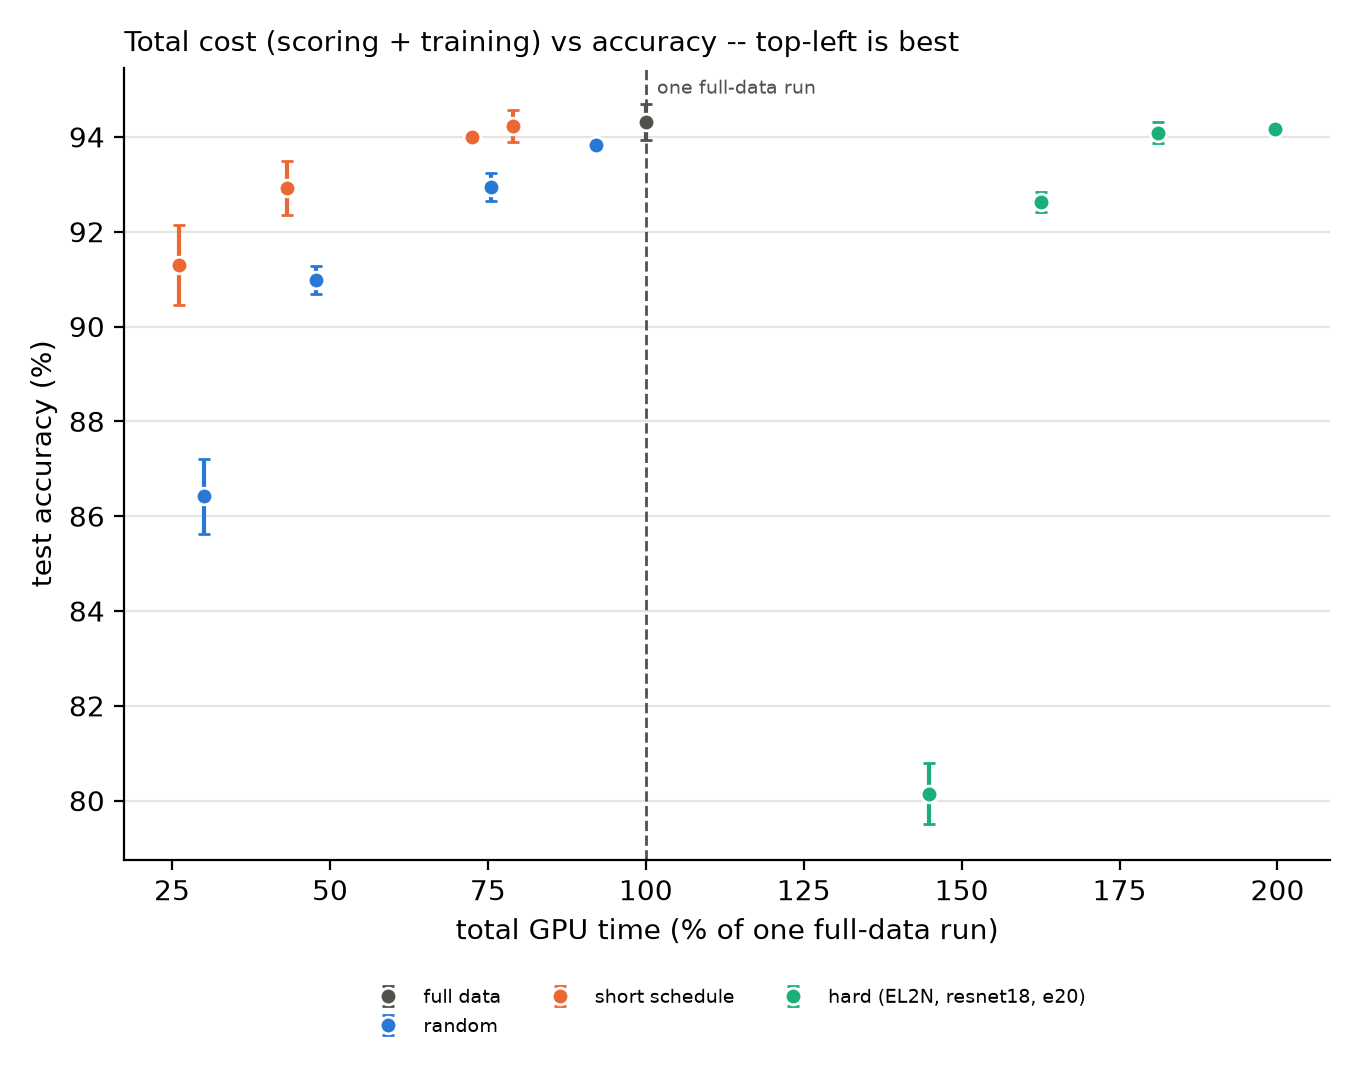
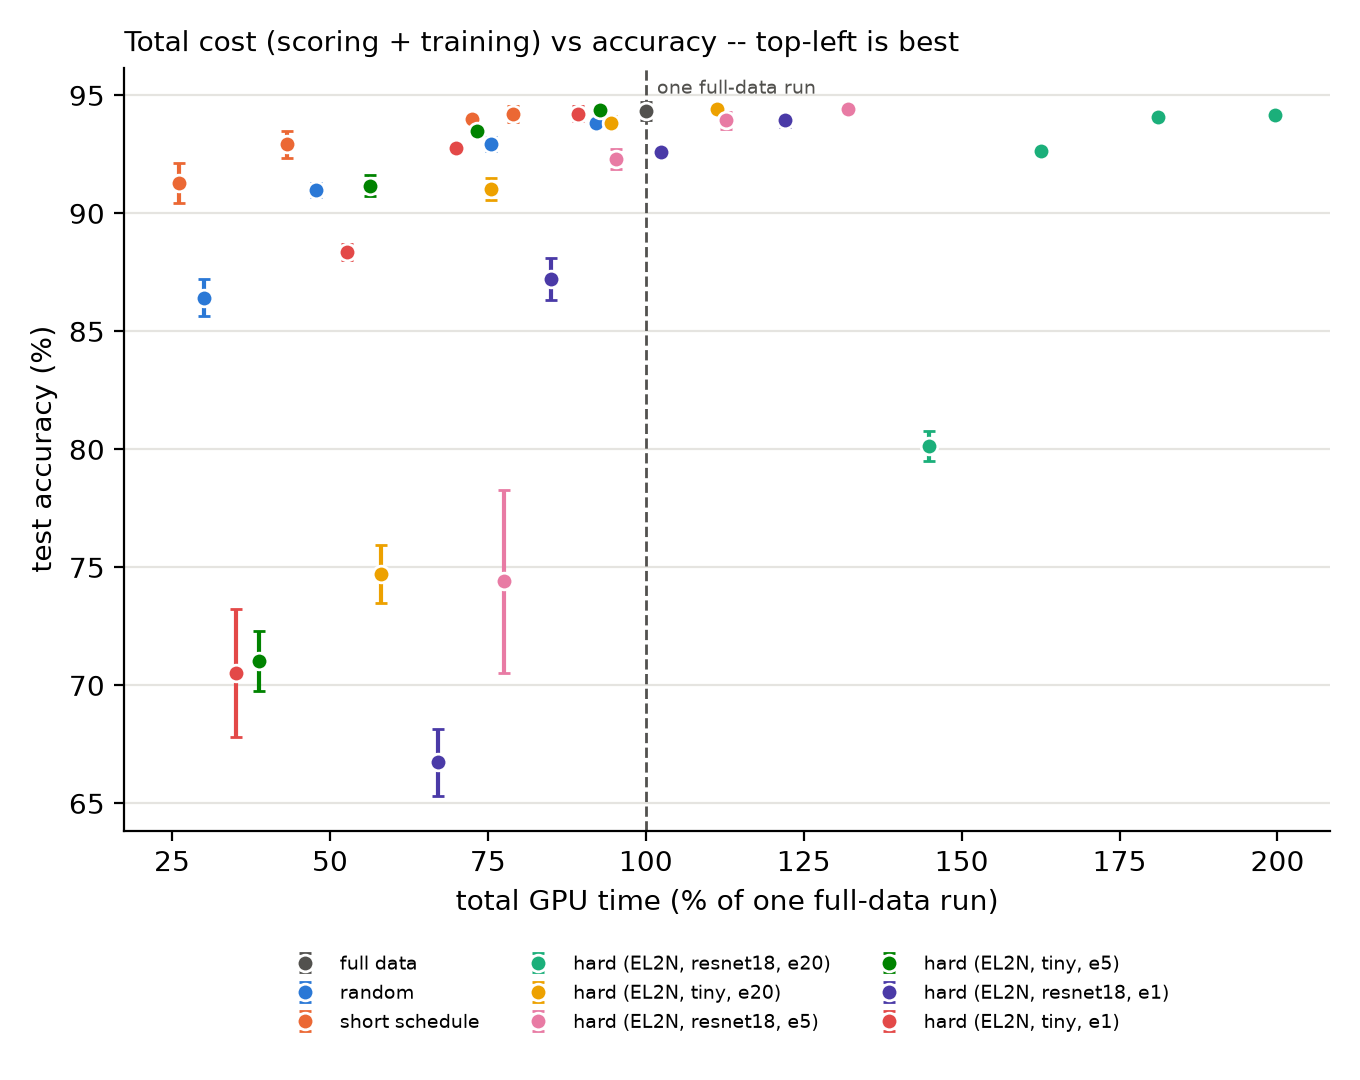
Update CIFAR-10 analysis with full post-mid-term results

diff --git a/results/cifar10/analysis/REPORT.md b/results/cifar10/analysis/REPORT.md
@@ -1,6 +1,6 @@
 # Results: CIFAR10
 
-51 training runs, 9 scorer snapshots. Hardware: NVIDIA L40S. Target: ResNet-18, 60 epochs (equal-epochs setting). Accuracy in %, mean ± sample std over seeds; ci95 = half-width of the 95% t-interval.
+171 training runs, 18 scorer snapshots. Hardware: NVIDIA L40S. Target: ResNet-18, 60 epochs (equal-epochs setting). Accuracy in %, mean ± sample std over seeds; ci95 = half-width of the 95% t-interval.
 
 ## All settings
 
@@ -10,13 +10,53 @@
 | easy (EL2N, resnet18, e20) | 0.50 | 60 | 3 | 85.53 | 0.28 | 0.70 | 1.11 |
 | easy (EL2N, resnet18, e20) | 0.70 | 60 | 3 | 89.50 | 0.17 | 0.41 | 1.57 |
 | easy (EL2N, resnet18, e20) | 0.90 | 60 | 3 | 92.38 | 0.15 | 0.37 | 1.98 |
+| easy (EL2N, tiny, e20) | 0.30 | 60 | 3 | 73.13 | 0.30 | 0.74 | 0.68 |
+| easy (EL2N, tiny, e20) | 0.50 | 60 | 3 | 81.07 | 0.26 | 0.64 | 1.11 |
+| easy (EL2N, tiny, e20) | 0.70 | 60 | 3 | 87.13 | 0.22 | 0.55 | 1.57 |
+| easy (EL2N, tiny, e20) | 0.90 | 60 | 3 | 92.26 | 0.18 | 0.44 | 1.96 |
+| easy (forgetting, resnet18, e20) | 0.30 | 60 | 3 | 79.72 | 0.19 | 0.48 | 0.68 |
+| easy (forgetting, resnet18, e20) | 0.50 | 60 | 3 | 85.42 | 0.51 | 1.28 | 1.11 |
+| easy (forgetting, resnet18, e20) | 0.70 | 60 | 3 | 89.86 | 0.18 | 0.43 | 1.58 |
+| easy (forgetting, resnet18, e20) | 0.90 | 60 | 3 | 93.25 | 0.21 | 0.52 | 1.99 |
 | full data | 1.00 | 60 | 3 | 94.32 | 0.38 | 0.95 | 2.38 |
+| hard (EL2N, resnet18, e1) | 0.30 | 60 | 3 | 66.73 | 1.42 | 3.52 | 0.66 |
+| hard (EL2N, resnet18, e1) | 0.50 | 60 | 3 | 87.23 | 0.89 | 2.21 | 1.08 |
+| hard (EL2N, resnet18, e1) | 0.70 | 60 | 3 | 92.61 | 0.12 | 0.30 | 1.50 |
+| hard (EL2N, resnet18, e1) | 0.90 | 60 | 3 | 93.94 | 0.28 | 0.70 | 1.97 |
 | hard (EL2N, resnet18, e20) | 0.30 | 60 | 3 | 80.15 | 0.64 | 1.58 | 0.69 |
+| hard (EL2N, resnet18, e20) + distill | 0.30 | 60 | 3 | 90.44 | 0.52 | 1.29 | 0.80 |
+| hard (EL2N, resnet18, e20) offset 0.05 | 0.30 | 60 | 3 | 85.76 | 1.05 | 2.62 | 0.69 |
+| hard (EL2N, resnet18, e20) class-balanced | 0.30 | 60 | 3 | 80.98 | 1.22 | 3.02 | 0.76 |
 | hard (EL2N, resnet18, e20) | 0.50 | 60 | 3 | 92.63 | 0.22 | 0.55 | 1.11 |
+| hard (EL2N, resnet18, e20) + distill | 0.50 | 60 | 3 | 92.92 | 0.02 | 0.05 | 1.27 |
+| hard (EL2N, resnet18, e20) offset 0.05 | 0.50 | 60 | 3 | 92.36 | 0.43 | 1.07 | 1.07 |
+| hard (EL2N, resnet18, e20) class-balanced | 0.50 | 60 | 3 | 92.37 | 0.36 | 0.89 | 1.21 |
 | hard (EL2N, resnet18, e20) | 0.70 | 60 | 3 | 94.09 | 0.22 | 0.55 | 1.55 |
 | hard (EL2N, resnet18, e20) | 0.90 | 60 | 3 | 94.16 | 0.04 | 0.10 | 1.99 |
+| hard (EL2N, resnet18, e5) | 0.30 | 60 | 3 | 74.40 | 3.86 | 9.59 | 0.66 |
+| hard (EL2N, resnet18, e5) | 0.50 | 60 | 3 | 92.29 | 0.42 | 1.03 | 1.08 |
+| hard (EL2N, resnet18, e5) | 0.70 | 60 | 3 | 93.93 | 0.36 | 0.91 | 1.49 |
+| hard (EL2N, resnet18, e5) | 0.90 | 60 | 3 | 94.43 | 0.15 | 0.38 | 1.95 |
+| hard (EL2N, tiny, e1) | 0.30 | 60 | 3 | 70.52 | 2.70 | 6.71 | 0.65 |
+| hard (EL2N, tiny, e1) | 0.50 | 60 | 3 | 88.37 | 0.34 | 0.84 | 1.07 |
+| hard (EL2N, tiny, e1) | 0.70 | 60 | 3 | 92.78 | 0.11 | 0.26 | 1.48 |
+| hard (EL2N, tiny, e1) | 0.90 | 60 | 3 | 94.22 | 0.32 | 0.80 | 1.94 |
+| hard (EL2N, tiny, e20) | 0.30 | 60 | 3 | 74.70 | 1.23 | 3.05 | 0.68 |
+| hard (EL2N, tiny, e20) | 0.50 | 60 | 3 | 91.03 | 0.48 | 1.20 | 1.09 |
+| hard (EL2N, tiny, e20) | 0.70 | 60 | 3 | 93.84 | 0.27 | 0.66 | 1.55 |
+| hard (EL2N, tiny, e20) | 0.90 | 60 | 3 | 94.42 | 0.26 | 0.65 | 1.95 |
+| hard (EL2N, tiny, e5) | 0.30 | 60 | 3 | 71.02 | 1.27 | 3.16 | 0.65 |
+| hard (EL2N, tiny, e5) | 0.50 | 60 | 3 | 91.17 | 0.46 | 1.13 | 1.07 |
+| hard (EL2N, tiny, e5) | 0.70 | 60 | 3 | 93.51 | 0.21 | 0.53 | 1.47 |
+| hard (EL2N, tiny, e5) | 0.90 | 60 | 3 | 94.39 | 0.22 | 0.56 | 1.94 |
+| hard (forgetting, resnet18, e20) | 0.30 | 60 | 3 | 81.81 | 5.65 | 14.02 | 0.68 |
+| hard (forgetting, resnet18, e20) | 0.50 | 60 | 3 | 93.11 | 0.16 | 0.40 | 1.10 |
+| hard (forgetting, resnet18, e20) | 0.70 | 60 | 3 | 93.88 | 0.20 | 0.48 | 1.58 |
+| hard (forgetting, resnet18, e20) | 0.90 | 60 | 3 | 94.16 | 0.26 | 0.65 | 1.97 |
 | random | 0.30 | 60 | 3 | 86.42 | 0.79 | 1.95 | 0.72 |
+| random + distill | 0.30 | 60 | 3 | 89.09 | 0.36 | 0.89 | 0.70 |
 | random | 0.50 | 60 | 3 | 90.97 | 0.30 | 0.74 | 1.14 |
+| random + distill | 0.50 | 60 | 3 | 91.08 | 0.12 | 0.30 | 1.09 |
 | random | 0.70 | 60 | 3 | 92.94 | 0.30 | 0.74 | 1.80 |
 | random | 0.90 | 60 | 3 | 93.84 | 0.13 | 0.31 | 2.19 |
 | short schedule | 1.00 | 18 | 3 | 91.29 | 0.84 | 2.09 | 0.62 |
@@ -30,7 +70,18 @@ S = total GPU seconds of all scorer runs up to the snapshot (+ the EL2N forward 
 
 | score_set | scorer | epoch | runs | cost_sec | scorer_test_acc | S_over_F | break_even_f |
 |---|---|---|---|---|---|---|---|
+| el2n_resnet18_e1 | resnet18 | 1 | 3 | 56.580 | 39.457 | 0.396 | 0.604 |
+| forget_resnet18_e1 | resnet18 | 1 | 3 | 44.650 | 39.457 | 0.312 | 0.688 |
+| el2n_resnet18_e5 | resnet18 | 5 | 3 | 71.630 | 69.677 | 0.501 | 0.499 |
+| forget_resnet18_e5 | resnet18 | 5 | 3 | 69.620 | 69.677 | 0.487 | 0.513 |
 | el2n_resnet18_e20 | resnet18 | 20 | 3 | 165.770 | 84.083 | 1.159 | -0.159 |
+| forget_resnet18_e20 | resnet18 | 20 | 3 | 163.760 | 84.083 | 1.145 | -0.145 |
+| el2n_tiny_e1 | tiny | 1 | 3 | 11.380 | 48.677 | 0.080 | 0.920 |
+| forget_tiny_e1 | tiny | 1 | 3 | 9.200 | 48.677 | 0.064 | 0.936 |
+| el2n_tiny_e5 | tiny | 5 | 3 | 16.260 | 63.137 | 0.114 | 0.886 |
+| forget_tiny_e5 | tiny | 5 | 3 | 16.130 | 63.137 | 0.113 | 0.887 |
+| el2n_tiny_e20 | tiny | 20 | 3 | 42.280 | 63.580 | 0.296 | 0.704 |
+| forget_tiny_e20 | tiny | 20 | 3 | 42.140 | 63.580 | 0.295 | 0.705 |
 
 ## Cost table (guide 10.7)
 
@@ -51,16 +102,75 @@ F = one full-data run = 2.38 min. total_pct < 100 means cheaper than training on
 | easy (EL2N, resnet18, e20) | 0.70 | 2.76 | 1.57 | 4.33 | 181.71 | 89.50 | 0.17 | 3 |
 | easy (EL2N, resnet18, e20) | 0.50 | 2.76 | 1.11 | 3.87 | 162.57 | 85.53 | 0.28 | 3 |
 | easy (EL2N, resnet18, e20) | 0.30 | 2.76 | 0.69 | 3.45 | 144.82 | 78.45 | 0.54 | 3 |
+| easy (EL2N, tiny, e20) | 0.90 | 0.70 | 1.96 | 2.66 | 111.70 | 92.26 | 0.18 | 3 |
+| easy (EL2N, tiny, e20) | 0.70 | 0.70 | 1.57 | 2.27 | 95.37 | 87.13 | 0.22 | 3 |
+| easy (EL2N, tiny, e20) | 0.50 | 0.70 | 1.11 | 1.82 | 76.35 | 81.07 | 0.26 | 3 |
+| easy (EL2N, tiny, e20) | 0.30 | 0.70 | 0.68 | 1.39 | 58.15 | 73.13 | 0.30 | 3 |
+| easy (forgetting, resnet18, e20) | 0.90 | 2.73 | 1.99 | 4.71 | 197.84 | 93.25 | 0.21 | 3 |
+| easy (forgetting, resnet18, e20) | 0.70 | 2.73 | 1.58 | 4.31 | 180.82 | 89.86 | 0.18 | 3 |
+| easy (forgetting, resnet18, e20) | 0.50 | 2.73 | 1.11 | 3.84 | 161.03 | 85.42 | 0.51 | 3 |
+| easy (forgetting, resnet18, e20) | 0.30 | 2.73 | 0.68 | 3.41 | 143.24 | 79.72 | 0.19 | 3 |
+| hard (EL2N, resnet18, e1) | 0.90 | 0.94 | 1.97 | 2.91 | 122.07 | 93.94 | 0.28 | 3 |
+| hard (EL2N, resnet18, e1) | 0.70 | 0.94 | 1.50 | 2.44 | 102.34 | 92.61 | 0.12 | 3 |
+| hard (EL2N, resnet18, e1) | 0.50 | 0.94 | 1.08 | 2.03 | 85.00 | 87.23 | 0.89 | 3 |
+| hard (EL2N, resnet18, e1) | 0.30 | 0.94 | 0.66 | 1.60 | 67.13 | 66.73 | 1.42 | 3 |
 | hard (EL2N, resnet18, e20) | 0.90 | 2.76 | 1.99 | 4.76 | 199.64 | 94.16 | 0.04 | 3 |
 | hard (EL2N, resnet18, e20) | 0.70 | 2.76 | 1.55 | 4.32 | 181.15 | 94.09 | 0.22 | 3 |
 | hard (EL2N, resnet18, e20) | 0.50 | 2.76 | 1.11 | 3.87 | 162.52 | 92.63 | 0.22 | 3 |
 | hard (EL2N, resnet18, e20) | 0.30 | 2.76 | 0.69 | 3.45 | 144.91 | 80.15 | 0.64 | 3 |
+| hard (EL2N, resnet18, e20) + distill | 0.50 | 2.76 | 1.27 | 4.03 | 169.14 | 92.92 | 0.02 | 3 |
+| hard (EL2N, resnet18, e20) + distill | 0.30 | 2.76 | 0.80 | 3.56 | 149.47 | 90.44 | 0.52 | 3 |
+| hard (EL2N, resnet18, e20) class-balanced | 0.50 | 2.76 | 1.21 | 3.98 | 166.81 | 92.37 | 0.36 | 3 |
+| hard (EL2N, resnet18, e20) class-balanced | 0.30 | 2.76 | 0.76 | 3.52 | 147.91 | 80.98 | 1.22 | 3 |
+| hard (EL2N, resnet18, e20) offset 0.05 | 0.50 | 2.76 | 1.07 | 3.83 | 160.90 | 92.36 | 0.43 | 3 |
+| hard (EL2N, resnet18, e20) offset 0.05 | 0.30 | 2.76 | 0.69 | 3.45 | 144.69 | 85.76 | 1.05 | 3 |
+| hard (EL2N, resnet18, e5) | 0.90 | 1.19 | 1.95 | 3.14 | 131.95 | 94.43 | 0.15 | 3 |
+| hard (EL2N, resnet18, e5) | 0.70 | 1.19 | 1.49 | 2.68 | 112.63 | 93.93 | 0.36 | 3 |
+| hard (EL2N, resnet18, e5) | 0.50 | 1.19 | 1.08 | 2.27 | 95.21 | 92.29 | 0.42 | 3 |
+| hard (EL2N, resnet18, e5) | 0.30 | 1.19 | 0.66 | 1.85 | 77.59 | 74.40 | 3.86 | 3 |
+| hard (EL2N, tiny, e1) | 0.90 | 0.19 | 1.94 | 2.13 | 89.26 | 94.22 | 0.32 | 3 |
+| hard (EL2N, tiny, e1) | 0.70 | 0.19 | 1.48 | 1.67 | 69.97 | 92.78 | 0.11 | 3 |
+| hard (EL2N, tiny, e1) | 0.50 | 0.19 | 1.07 | 1.26 | 52.76 | 88.37 | 0.34 | 3 |
+| hard (EL2N, tiny, e1) | 0.30 | 0.19 | 0.65 | 0.84 | 35.13 | 70.52 | 2.70 | 3 |
+| hard (EL2N, tiny, e20) | 0.90 | 0.70 | 1.95 | 2.65 | 111.21 | 94.42 | 0.26 | 3 |
+| hard (EL2N, tiny, e20) | 0.70 | 0.70 | 1.55 | 2.25 | 94.42 | 93.84 | 0.27 | 3 |
+| hard (EL2N, tiny, e20) | 0.50 | 0.70 | 1.09 | 1.80 | 75.48 | 91.03 | 0.48 | 3 |
+| hard (EL2N, tiny, e20) | 0.30 | 0.70 | 0.68 | 1.38 | 58.04 | 74.70 | 1.23 | 3 |
+| hard (EL2N, tiny, e5) | 0.90 | 0.27 | 1.94 | 2.21 | 92.82 | 94.39 | 0.22 | 3 |
+| hard (EL2N, tiny, e5) | 0.70 | 0.27 | 1.47 | 1.75 | 73.24 | 93.51 | 0.21 | 3 |
+| hard (EL2N, tiny, e5) | 0.50 | 0.27 | 1.07 | 1.34 | 56.26 | 91.17 | 0.46 | 3 |
+| hard (EL2N, tiny, e5) | 0.30 | 0.27 | 0.65 | 0.92 | 38.69 | 71.02 | 1.27 | 3 |
+| hard (forgetting, resnet18, e20) | 0.90 | 2.73 | 1.97 | 4.70 | 197.32 | 94.16 | 0.26 | 3 |
+| hard (forgetting, resnet18, e20) | 0.70 | 2.73 | 1.58 | 4.31 | 180.74 | 93.88 | 0.20 | 3 |
+| hard (forgetting, resnet18, e20) | 0.50 | 2.73 | 1.10 | 3.83 | 160.81 | 93.11 | 0.16 | 3 |
+| hard (forgetting, resnet18, e20) | 0.30 | 2.73 | 0.68 | 3.41 | 143.00 | 81.81 | 5.65 | 3 |
+| random + distill | 0.50 | 2.76 | 1.09 | 3.86 | 161.87 | 91.08 | 0.12 | 3 |
+| random + distill | 0.30 | 2.76 | 0.70 | 3.46 | 145.20 | 89.09 | 0.36 | 3 |
+
+## Scorer agreement with the reference (guide 9.4)
+
+Reference: el2n_resnet18_e20. Overlap = share of the reference's kept (hardest) images also kept by the other scorer; compare with random@f, the overlap expected by chance.
+
+| score_set | spearman | kendall | overlap@90% | random@90% | overlap@70% | random@70% | overlap@50% | random@50% | overlap@30% | random@30% |
+|---|---|---|---|---|---|---|---|---|---|---|
+| el2n_tiny_e20 | 0.700 | 0.508 | 0.944 | 0.900 | 0.852 | 0.700 | 0.760 | 0.500 | 0.641 | 0.300 |
+| el2n_resnet18_e5 | 0.670 | 0.481 | 0.936 | 0.900 | 0.841 | 0.700 | 0.747 | 0.500 | 0.631 | 0.300 |
+| el2n_tiny_e5 | 0.615 | 0.434 | 0.932 | 0.900 | 0.826 | 0.700 | 0.722 | 0.500 | 0.593 | 0.300 |
+| el2n_resnet18_e1 | 0.367 | 0.250 | 0.922 | 0.900 | 0.784 | 0.700 | 0.624 | 0.500 | 0.442 | 0.300 |
+| el2n_tiny_e1 | 0.494 | 0.341 | 0.923 | 0.900 | 0.804 | 0.700 | 0.678 | 0.500 | 0.518 | 0.300 |
+| forget_resnet18_e20 | 0.742 | 0.559 | 0.923 | 0.900 | 0.848 | 0.700 | 0.799 | 0.500 | 0.702 | 0.300 |
+| forget_tiny_e20 | 0.653 | 0.479 | 0.923 | 0.900 | 0.845 | 0.700 | 0.756 | 0.500 | 0.590 | 0.300 |
 
 ## Scorer table (guide 9.5)
 
 | scorer | epoch | runs | cost_sec | scorer_acc | spearman_vs_ref | hard_acc@50% | hard_acc@30% | random_acc@50% | random_acc@30% |
 |---|---|---|---|---|---|---|---|---|---|
+| resnet18 | 1 | 3 | 56.58 | 39.46 | 0.37 | 87.23 | 66.73 | 90.97 | 86.42 |
+| resnet18 | 5 | 3 | 71.63 | 69.68 | 0.67 | 92.29 | 74.40 | 90.97 | 86.42 |
 | resnet18 | 20 | 3 | 165.77 | 84.08 | 1.00 | 92.63 | 80.15 | 90.97 | 86.42 |
+| tiny | 1 | 3 | 11.38 | 48.68 | 0.49 | 88.37 | 70.52 | 90.97 | 86.42 |
+| tiny | 5 | 3 | 16.26 | 63.14 | 0.61 | 91.17 | 71.02 | 90.97 | 86.42 |
+| tiny | 20 | 3 | 42.28 | 63.58 | 0.70 | 91.03 | 74.70 | 90.97 | 86.42 |
 
 ## Is it better than random? (Welch t-test, guide 12.4)
 
@@ -70,10 +180,50 @@ F = one full-data run = 2.38 min. total_pct < 100 means cheaper than training on
 | easy (EL2N, resnet18, e20) | 0.500 | 85.533 | 90.973 | -5.440 | -22.929 | 0.000 | yes |
 | easy (EL2N, resnet18, e20) | 0.700 | 89.500 | 92.940 | -3.440 | -17.427 | 0.000 | yes |
 | easy (EL2N, resnet18, e20) | 0.900 | 92.377 | 93.837 | -1.460 | -12.961 | 0.000 | yes |
+| easy (EL2N, tiny, e20) | 0.300 | 73.130 | 86.420 | -13.290 | -27.367 | 0.000 | yes |
+| easy (EL2N, tiny, e20) | 0.500 | 81.067 | 90.973 | -9.907 | -43.645 | 0.000 | yes |
+| easy (EL2N, tiny, e20) | 0.700 | 87.133 | 92.940 | -5.807 | -27.100 | 0.000 | yes |
+| easy (EL2N, tiny, e20) | 0.900 | 92.263 | 93.837 | -1.573 | -12.615 | 0.000 | yes |
+| easy (forgetting, resnet18, e20) | 0.300 | 79.717 | 86.420 | -6.703 | -14.347 | 0.003 | yes |
+| easy (forgetting, resnet18, e20) | 0.500 | 85.420 | 90.973 | -5.553 | -16.182 | 0.000 | yes |
+| easy (forgetting, resnet18, e20) | 0.700 | 89.857 | 92.940 | -3.083 | -15.427 | 0.000 | yes |
+| easy (forgetting, resnet18, e20) | 0.900 | 93.253 | 93.837 | -0.583 | -4.161 | 0.021 | yes |
+| hard (EL2N, resnet18, e1) | 0.300 | 66.733 | 86.420 | -19.687 | -21.032 | 0.000 | yes |
+| hard (EL2N, resnet18, e1) | 0.500 | 87.227 | 90.973 | -3.747 | -6.915 | 0.012 | yes |
+| hard (EL2N, resnet18, e1) | 0.700 | 92.613 | 92.940 | -0.327 | -1.759 | 0.190 | no |
+| hard (EL2N, resnet18, e1) | 0.900 | 93.937 | 93.837 | 0.100 | 0.562 | 0.616 | no |
 | hard (EL2N, resnet18, e20) | 0.300 | 80.150 | 86.420 | -6.270 | -10.739 | 0.001 | yes |
+| hard (EL2N, resnet18, e20) + distill | 0.300 | 90.437 | 86.420 | 4.017 | 7.391 | 0.003 | yes |
+| hard (EL2N, resnet18, e20) offset 0.05 | 0.300 | 85.760 | 86.420 | -0.660 | -0.870 | 0.437 | no |
+| hard (EL2N, resnet18, e20) class-balanced | 0.300 | 80.980 | 86.420 | -5.440 | -6.500 | 0.005 | yes |
 | hard (EL2N, resnet18, e20) | 0.500 | 92.627 | 90.973 | 1.653 | 7.746 | 0.002 | yes |
+| hard (EL2N, resnet18, e20) + distill | 0.500 | 92.923 | 90.973 | 1.950 | 11.330 | 0.007 | yes |
+| hard (EL2N, resnet18, e20) offset 0.05 | 0.500 | 92.360 | 90.973 | 1.387 | 4.594 | 0.013 | yes |
+| hard (EL2N, resnet18, e20) class-balanced | 0.500 | 92.370 | 90.973 | 1.397 | 5.187 | 0.007 | yes |
 | hard (EL2N, resnet18, e20) | 0.700 | 94.090 | 92.940 | 1.150 | 5.360 | 0.007 | yes |
 | hard (EL2N, resnet18, e20) | 0.900 | 94.163 | 93.837 | 0.327 | 4.293 | 0.035 | yes |
+| hard (EL2N, resnet18, e5) | 0.300 | 74.400 | 86.420 | -12.020 | -5.284 | 0.029 | yes |
+| hard (EL2N, resnet18, e5) | 0.500 | 92.290 | 90.973 | 1.317 | 4.461 | 0.014 | yes |
+| hard (EL2N, resnet18, e5) | 0.700 | 93.933 | 92.940 | 0.993 | 3.650 | 0.023 | yes |
+| hard (EL2N, resnet18, e5) | 0.900 | 94.430 | 93.837 | 0.593 | 5.235 | 0.007 | yes |
+| hard (EL2N, tiny, e1) | 0.300 | 70.523 | 86.420 | -15.897 | -9.793 | 0.006 | yes |
+| hard (EL2N, tiny, e1) | 0.500 | 88.373 | 90.973 | -2.600 | -10.028 | 0.001 | yes |
+| hard (EL2N, tiny, e1) | 0.700 | 92.777 | 92.940 | -0.163 | -0.894 | 0.449 | no |
+| hard (EL2N, tiny, e1) | 0.900 | 94.220 | 93.837 | 0.383 | 1.930 | 0.163 | no |
+| hard (EL2N, tiny, e20) | 0.300 | 74.703 | 86.420 | -11.717 | -13.908 | 0.000 | yes |
+| hard (EL2N, tiny, e20) | 0.500 | 91.030 | 90.973 | 0.057 | 0.173 | 0.873 | no |
+| hard (EL2N, tiny, e20) | 0.700 | 93.837 | 92.940 | 0.897 | 3.881 | 0.018 | yes |
+| hard (EL2N, tiny, e20) | 0.900 | 94.423 | 93.837 | 0.587 | 3.505 | 0.042 | yes |
+| hard (EL2N, tiny, e5) | 0.300 | 71.017 | 86.420 | -15.403 | -17.842 | 0.000 | yes |
+| hard (EL2N, tiny, e5) | 0.500 | 91.173 | 90.973 | 0.200 | 0.636 | 0.565 | no |
+| hard (EL2N, tiny, e5) | 0.700 | 93.507 | 92.940 | 0.567 | 2.672 | 0.062 | no |
+| hard (EL2N, tiny, e5) | 0.900 | 94.387 | 93.837 | 0.550 | 3.717 | 0.031 | yes |
+| hard (forgetting, resnet18, e20) | 0.300 | 81.810 | 86.420 | -4.610 | -1.401 | 0.292 | no |
+| hard (forgetting, resnet18, e20) | 0.500 | 93.107 | 90.973 | 2.133 | 10.898 | 0.001 | yes |
+| hard (forgetting, resnet18, e20) | 0.700 | 93.880 | 92.940 | 0.940 | 4.563 | 0.015 | yes |
+| hard (forgetting, resnet18, e20) | 0.900 | 94.160 | 93.837 | 0.323 | 1.941 | 0.151 | no |
+| random + distill | 0.300 | 89.087 | 86.420 | 2.667 | 5.340 | 0.015 | yes |
+| random + distill | 0.500 | 91.077 | 90.973 | 0.103 | 0.557 | 0.621 | no |
 
 ## Images kept per class (reference scores, guide 5.6)
 
@@ -93,4 +243,12 @@ F = one full-data run = 2.38 min. total_pct < 100 means cheaper than training on
 ![baselines.png](baselines.png)
 ![cost_scatter.png](cost_scatter.png)
 ![hardest_easiest.png](hardest_easiest.png)
+![score_epochs.png](score_epochs.png)
+![scorers.png](scorers.png)
+![strategies_el2n_resnet18_e1.png](strategies_el2n_resnet18_e1.png)
 ![strategies_el2n_resnet18_e20.png](strategies_el2n_resnet18_e20.png)
+![strategies_el2n_resnet18_e5.png](strategies_el2n_resnet18_e5.png)
+![strategies_el2n_tiny_e1.png](strategies_el2n_tiny_e1.png)
+![strategies_el2n_tiny_e20.png](strategies_el2n_tiny_e20.png)
+![strategies_el2n_tiny_e5.png](strategies_el2n_tiny_e5.png)
+![strategies_forget_resnet18_e20.png](strategies_forget_resnet18_e20.png)
